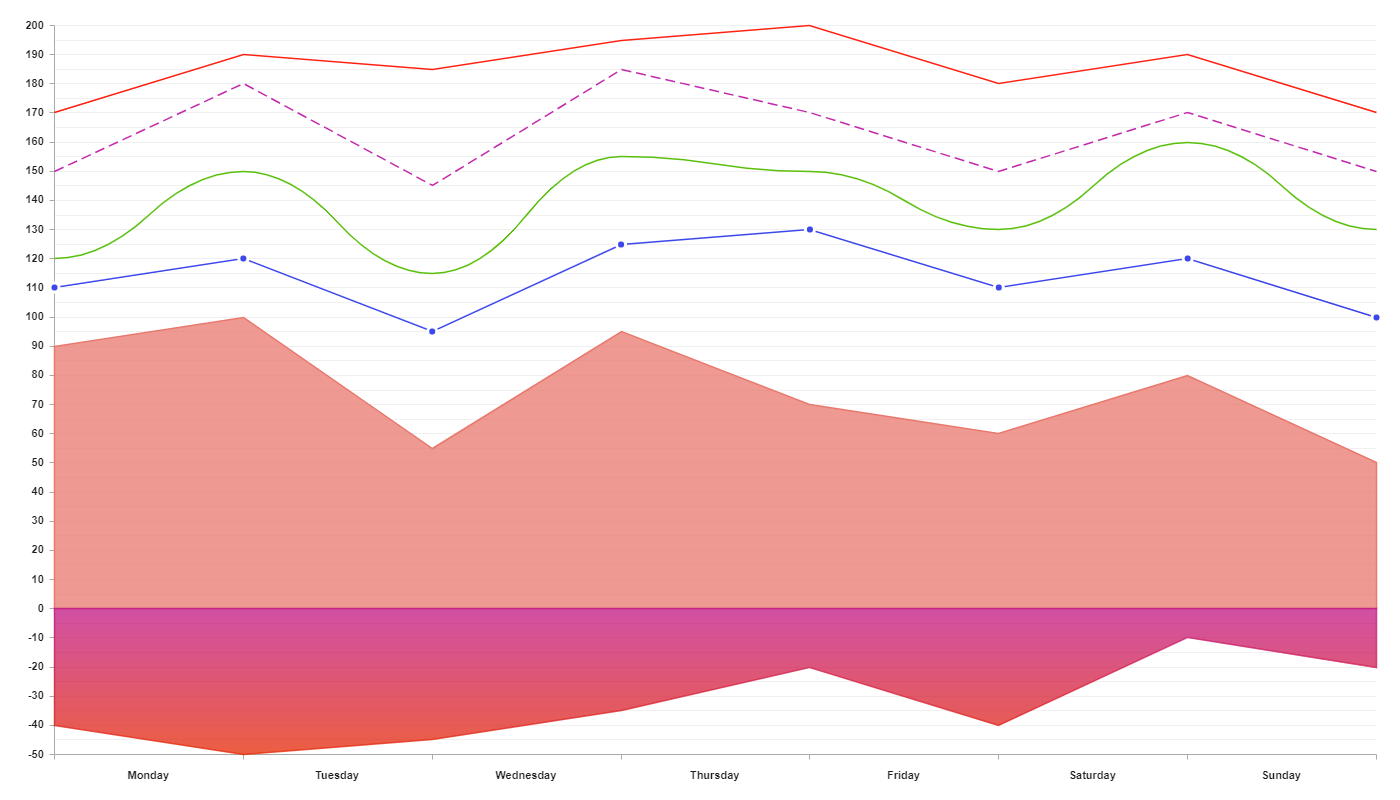
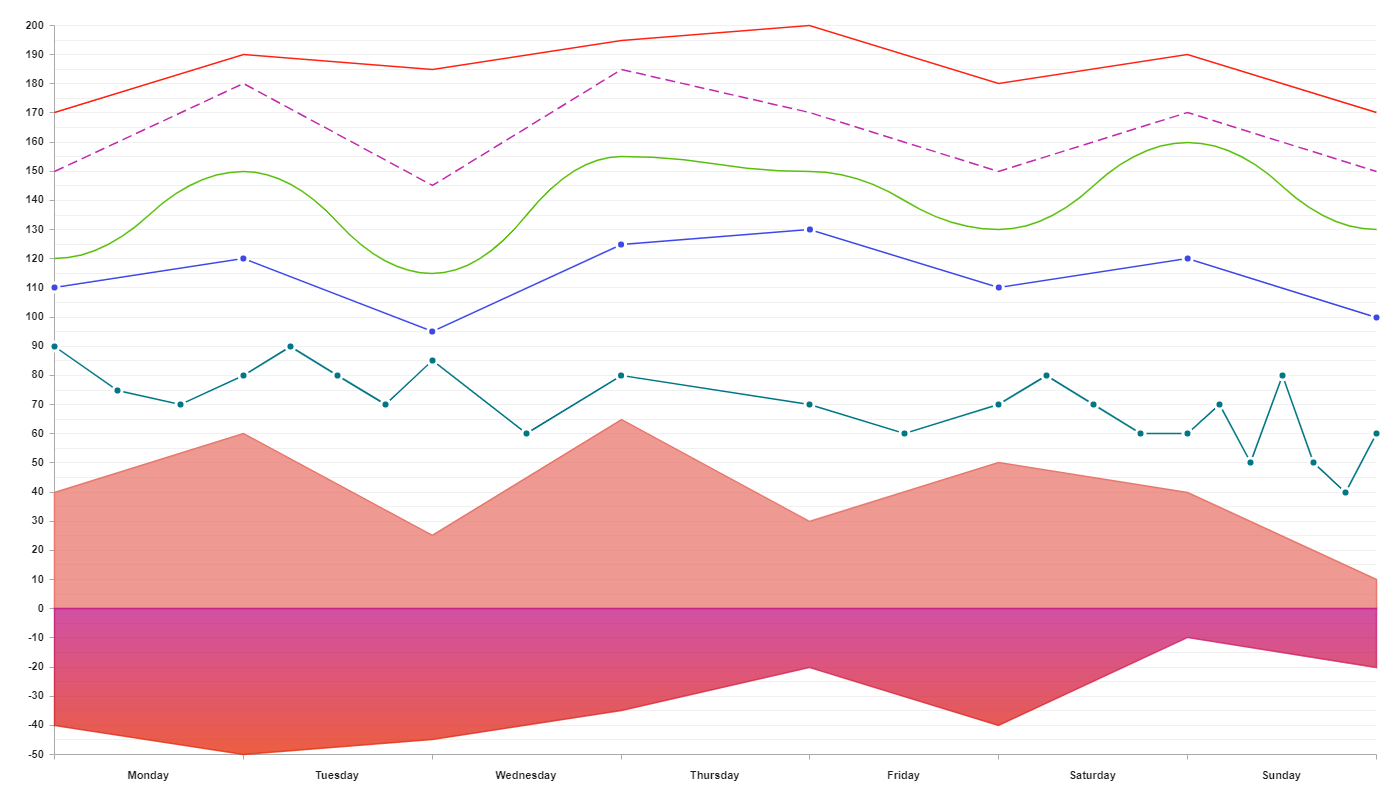
documentation - line chart

Changed region(s): [[0.0307, 0.375, 0.9829, 0.7188]]

diff --git a/index.ts b/index.ts
@@ -1,46 +1,95 @@
-import _CoordinateSystem2dGrid from "./src/grids/coordinate-system-2d-grid";
-import _CoordinateSystem1dGrid from "./src/grids/coordinate-system-1d-grid";
-import _HorizontalGrid from "./src/grids/horizontal-grid";
-import _VerticalGrid from "./src/grids/vertical-grid";
-import _NoGrid from "./src/grids/no-grid";
-import _PolygonGrid from "./src/grids/polygon-grid";
-import _GridFactor, { DEFAULT_GRID_FACTOR as _DEFAULT_GRID_FACTOR } from "./src/factors/grid-factor";
-import _ChartFactor, { DEFAULT_CHART_FACTOR as _DEFAULT_CHART_FACTOR } from "./src/factors/chart-factor";
-import _StringLabel from "./src/labels/string-label";
-import _ValueLabel from "./src/labels/value-label";
-import _PercentLabel from "./src/labels/percent-label";
-import _FlexLabel from "./src/labels/flex-label";
-import _BubleChart from "./src/charts/buble-chart";
-import _ColumnChart from "./src/charts/column-chart";
-import _LineChart from "./src/charts/line-chart";
-import _PolygonChart from "./src/charts/polygon-chart";
-import _RangeChart from "./src/charts/range-chart";
-import _RoundChart from "./src/charts/round-chart";
-import _SameDirectionRoundChart from "./src/charts/same-direction-round-chart";
-import _RowChart from "./src/charts/row-chart";
+import CoordinateSystem2dGrid from "./src/grids/coordinate-system-2d-grid";
+import CoordinateSystem1dGrid from "./src/grids/coordinate-system-1d-grid";
+import HorizontalGrid from "./src/grids/horizontal-grid";
+import VerticalGrid from "./src/grids/vertical-grid";
+import NoGrid from "./src/grids/no-grid";
+import PolygonGrid from "./src/grids/polygon-grid";
+import GridFactor, { DEFAULT_GRID_FACTOR } from "./src/factors/grid-factor";
+import ChartFactor, { DEFAULT_CHART_FACTOR } from "./src/factors/chart-factor";
+import StringLabel from "./src/labels/string-label";
+import ValueLabel from "./src/labels/value-label";
+import PercentLabel from "./src/labels/percent-label";
+import FlexLabel from "./src/labels/flex-label";
+import BubleChart from "./src/charts/buble-chart";
+import ColumnChart from "./src/charts/column-chart";
+import LineChart from "./src/charts/line-chart";
+import PolygonChart from "./src/charts/polygon-chart";
+import RangeChart from "./src/charts/range-chart";
+import RoundChart from "./src/charts/round-chart";
+import SameDirectionRoundChart from "./src/charts/same-direction-round-chart";
+import RowChart from "./src/charts/row-chart";
 
-export const CoordinateSystem2dGrid = _CoordinateSystem2dGrid;
-export const CoordinateSystem1dGrid = _CoordinateSystem1dGrid;
-export const HorizontalGrid = _HorizontalGrid;
-export const VerticalGrid = _VerticalGrid;
-export const NoGrid = _NoGrid;
-export const PolygonGrid = _PolygonGrid;
-    
-export const GridFactor = _GridFactor;
-export const ChartFactor = _ChartFactor;
-export const DEFAULT_CHART_FACTOR = _DEFAULT_CHART_FACTOR;
-export const DEFAULT_GRID_FACTOR = _DEFAULT_GRID_FACTOR;
-    
-export const StringLabel = _StringLabel;
-export const ValueLabel = _ValueLabel;
-export const PercentLabel = _PercentLabel;
-export const FlexLabel = _FlexLabel;
-    
-export const BubleChart = _BubleChart;
-export const ColumnChart = _ColumnChart;
-export const LineChart = _LineChart;
-export const PolygonChart = _PolygonChart;
-export const RangeChart = _RangeChart;
-export const RoundChart = _RoundChart;
-export const SameDirectionRoundChart = _SameDirectionRoundChart;
-export const RowChart = _RowChart;
+let canvas = <HTMLCanvasElement>document.querySelector('canvas');
+
+let chart1 = new LineChart({
+    values: [{
+        color: '#FF2212',
+        values: [170,190,185,195,200,180,190,170]
+    }]
+})
+
+let chart2 = new LineChart({
+    dashLine: [10, 5],
+    values: [{
+        color: '#C229AD',
+        values: [150,180,145,185,170,150,170,150]
+    }]
+})
+
+let chart3 = new LineChart({
+    smooth: true,
+    values: [{
+        color: '#59BF0B',
+        values: [120,150,115,155,150,130,160,130]
+    }]
+})
+
+let chart4 = new LineChart({
+    dots: true,
+    values: [{
+        color: '#3D48EB',
+        values: [110,120,95,125,130,110,120,100]
+    }]
+})
+
+let chart5 = new LineChart({
+    dots: true,
+    values: [{
+        color: '#007785',
+        values: [[90,75,70],[80,90,80,70],[85, 60],80,[70, 60],[70, 80, 70, 60],[60, 70, 50, 80, 50, 40], 60]
+    }]
+})
+
+let chart6 = new LineChart({
+    fill: true,
+    values: [{
+        color: '#E8786D',
+        values: [40,60,25,65,30,50,40,10]
+    }]
+})
+
+let chart7 = new LineChart({
+    fill: true,
+    values: [{
+        color: ['#C21585', '#E62802'],
+        values: [-40,-50,-45,-35,-20,-40,-10,-20]
+    }]
+})
+
+
+let grid = new HorizontalGrid(canvas, {
+    left: new ValueLabel(200, -50, 10),
+    bottom: new StringLabel(['Monday', 'Tuesday', 'Wednesday', 'Thursday', 'Friday', 'Saturday', 'Sunday'])
+})
+
+grid.addCharts({
+    chart1,
+    chart2,
+    chart3,
+    chart4,
+    chart5,
+    chart6,
+    chart7  
+})
+
+grid.draw()

diff --git a/index.html b/index.html
@@ -16,7 +16,7 @@
     </style>
 </head>
 <body>
-    <div><canvas width="1400" height="400" id="c1"></canvas></div>
+    <div><canvas width="1400" height="800" id="c1"></canvas></div>
     <!-- <div><canvas width="1600" height="800" id="c2"></canvas></div> -->
     <!-- <div><canvas width="700" height="700" id="c3"></canvas></div> -->
     <!-- <div><canvas width="1100" height="700" id="c4"></canvas></div> -->

diff --git a/README.md b/README.md
@@ -318,6 +318,131 @@ let grid = new NoGrid(canvas);
 
 ### LineChart
 
+It creates lines on your grid.
+
+* **values** - Each object in array is single line. 
+    **Item object:**
+    1. **color** - If you pass string it take its value as color. If you pass string array it will create gradient from this colors.
+    2. **values** - If you pass number array the values will be pointing to the begining of the range. If you pass nested array it will be pointing to values between the range. You can see it in chart5.
+    3. **id** - By this id you will be able to manage you item.
+    4. **name** - It is the title of your item. It will allow you automaticly create label from your chart.
+* **dashLine** - It takes array of number. It wors same as dash line in canvas.
+* **smooth** - It somooths your line naturally.
+* **dots** - It creates dots on the vertex.
+* **fill** - It fills your line to the 0 point.
+* **correspondTo** - By this you can choose to witch label it will be corresponding to.
+* **factor** - [more about facotrs]()
+
+
+**Example 1**
+
+**Code**
+
+```typescript
+LineChart({
+    values?: [{
+        color: string | string[]
+        values: [number | number[]]
+        id?: string | number,
+        name?: string
+    }],
+    dashLine?: number[],
+    smooth?: boolean,
+    dots?: boolean,
+    fill?: boolean,
+    correspondTo?: string,
+    factor?: ChartFactor
+});
+
+let chart1 = new LineChart({
+    values: [{
+        color: '#FF2212',
+        values: [170,190,185,195,200,180,190,170]
+    }]
+});
+
+let chart2 = new LineChart({
+    dashLine: [10, 5],
+    values: [{
+        color: '#C229AD',
+        values: [150,180,145,185,170,150,170,150]
+    }]
+});
+
+let chart3 = new LineChart({
+    smooth: true,
+    values: [{
+        color: '#59BF0B',
+        values: [120,150,115,155,150,130,160,130]
+    }]
+});
+
+let chart4 = new LineChart({
+    dots: true,
+    values: [{
+        color: '#3D48EB',
+        values: [110,120,95,125,130,110,120,100]
+    }]
+});
+
+let chart5 = new LineChart({
+    dots: true,
+    values: [{
+        color: '#007785',
+        values: [[90,75,70],[80,90,80,70],[85, 60],80,[70, 60],[70, 80, 70, 60],[60, 70, 50, 80, 50, 40], 60]
+    }]
+});
+
+let chart6 = new LineChart({
+    fill: true,
+    values: [{
+        color: '#E8786D',
+        values: [40,60,25,65,30,50,40,10]
+    }]
+});
+
+let chart7 = new LineChart({
+    fill: true,
+    values: [{
+        color: ['#C21585', '#E62802'],
+        values: [-40,-50,-45,-35,-20,-40,-10,-20]
+    }]
+});
+```
+
+**Output**
+
+![LineChart](https://github.com/SMasiu/GraphJS/blob/master/img/line-chart1.png?raw=true)
+
+**Example 2**
+
+You can also create many charts in one LineChart. They will have same properties like smooth, dots, fill and dashLine.
+
+**Code**
+```typescript
+let chart = new LineChart({
+    smooth: true,
+    dots: true,
+    values: [{
+        color: '#FF2212',
+        values: [70,90,85,95,100,80,90,70]
+    },{
+        color: '#3164C2',
+        values: [40,50,35,50,50,30,70,40]
+    },{
+        color: ['#44C219', '#138000'],
+        values: [20,-40,-85,-95,-40,-20,30,50]
+    },{
+        color: '#B30EC2',
+        values: [-70,-40,-35,-5,10,-20,-40,-70]
+    }]
+})
+```
+
+**Output**
+
+![LineChart](https://github.com/SMasiu/GraphJS/blob/master/img/line-chart2.png?raw=true)
+
 ### ColumnChart
 
 ### RowChart
